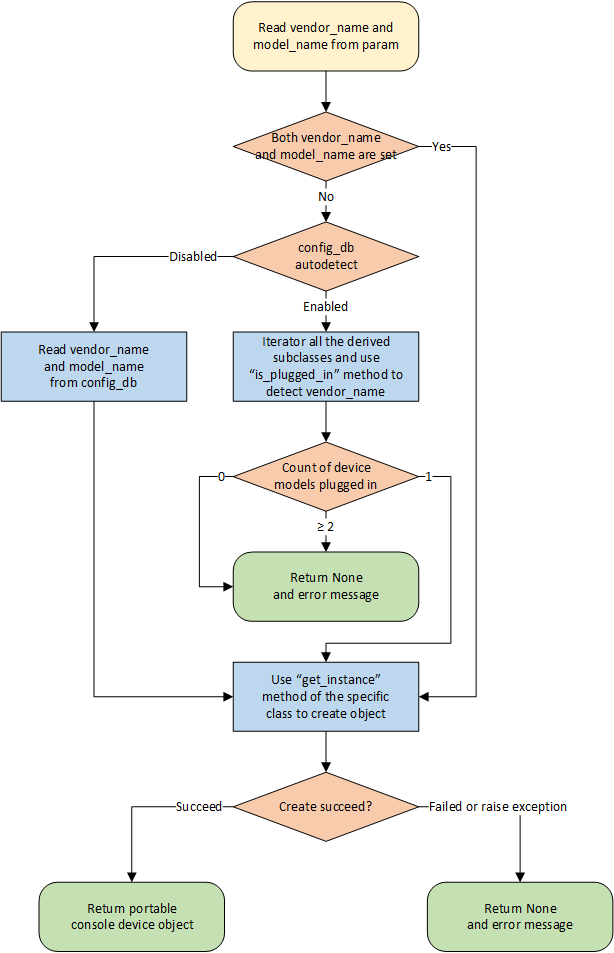
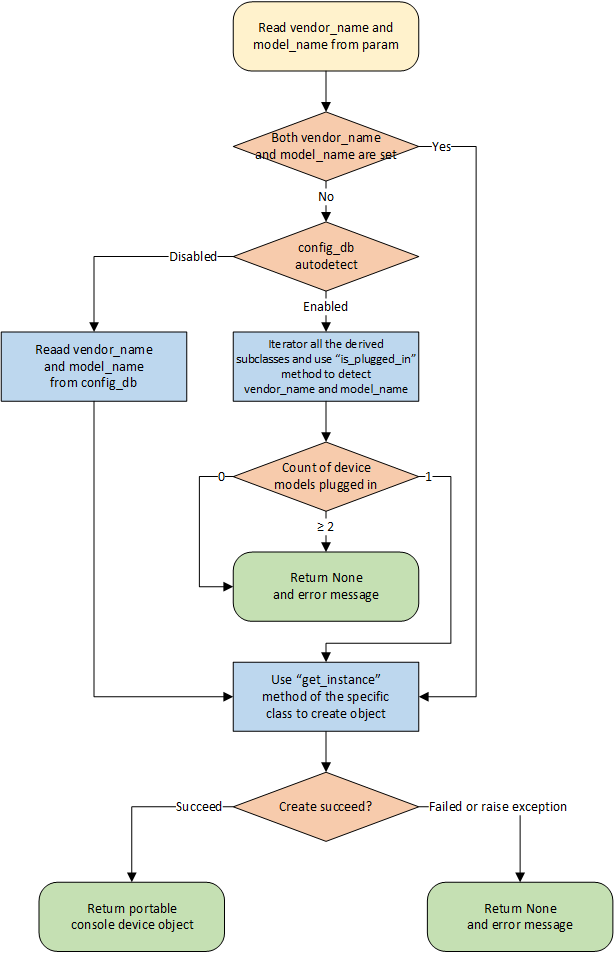
some updates

Changed region(s): [[0.4023, 0.3347, 0.6808, 0.426], [0.0619, 0.3652, 0.2476, 0.3956]]

diff --git a/doc/console/Portable-Console-Device-High-Level-Design.md b/doc/console/Portable-Console-Device-High-Level-Design.md
@@ -4,7 +4,7 @@
 
 |  Rev  |   Date   |   Author   | Change Description |
 | :---: | :------: | :--------: | ------------------ |
-|  0.1  | 10/10/22 | Zhijian Li | Initial version    |
+|  0.1  | 11/08/22 | Zhijian Li | Initial version    |
 
 ## Overview
 
@@ -24,7 +24,7 @@ After the console device is plugged into the SONiC switch, we need to set up the
   2. Map console interface from `/dev/ttyUSB<id>` to `/dev/console-<line-number>`. (Usually done with the help of [udev](https://wiki.debian.org/udev))
   3. Any other necessary steps.
 
-Vendors should package all the files and setup procedures into a corresponding `<vendor_name>-<model_name>.deb` file. Since we prefer the setup process completed after building a SONiC image, files used to build `.deb` packages should be put in the [Azure/sonic-buildimage](https://github.com/Azure/sonic-buildimage) repository, then the `.deb` packages will be built and installed automatically. 
+Vendors should package all the files and setup procedures into a corresponding `<vendor_name>-<model_name>.deb` file. Since we prefer the setup process completed after building a SONiC image, files used to build `.deb` packages should be put in the [sonic-net/sonic-buildimage](https://github.com/sonic-net/sonic-buildimage) repository, then the `.deb` packages will be built and installed automatically. 
 
 <!-- Pictures exported from Visio are zoomed to 70% -->
 
@@ -50,7 +50,7 @@ key = CONSOLE_SWITCH:console_mgmt
 
 ; field = value
 autodetect  = "enable"/"disable" ; "enabled" means factory function will auto detect which vendor's device is plugged in
-                                 ; "disabled" means factory function will read vendor_name from config_db
+                                 ; "disabled" means factory function will read vendor_name and model_name from config_db
 vendor_name = 1*255 VCHAR        ; Vendor name of portable console device.
                                  ; If `autodetect` is set to "enabled", `vendor_name` must be empty.
 model_name  = 1*255 VCHAR        ; Model name of portable console device.
@@ -61,7 +61,7 @@ model_name  = 1*255 VCHAR        ; Model name of portable console device.
 
 ### API Code Directory Structure
 
-All the portable console device API code should be put in `/sonic_platform_common/sonic_console/`. The directory structure is defined as below:
+All the portable console device API code should be put in `/sonic_platform_common/sonic_console/` (Repository address: [sonic-net/sonic-platform-common](https://github.com/sonic-net/sonic-platform-common)). The directory structure is defined as below:
 
 ```
 sonic_console/
@@ -73,6 +73,7 @@ sonic_console/
 │   ├── __init__.py
 │   └── console_simulator.py
 └── <vendor-name>
+    ├── __init__.py
     └── console_<model-name>.py
 ```
 
@@ -321,7 +322,7 @@ class PortableConsoleDeviceSimulator(PortableConsoleDeviceBase):
             return (None, e)
 
     def get_num_devices(self):
-        return 1
+        return len(self._serial_number)
 
     def get_serial_number(self):
         return copy.deepcopy(self._serial_number)
